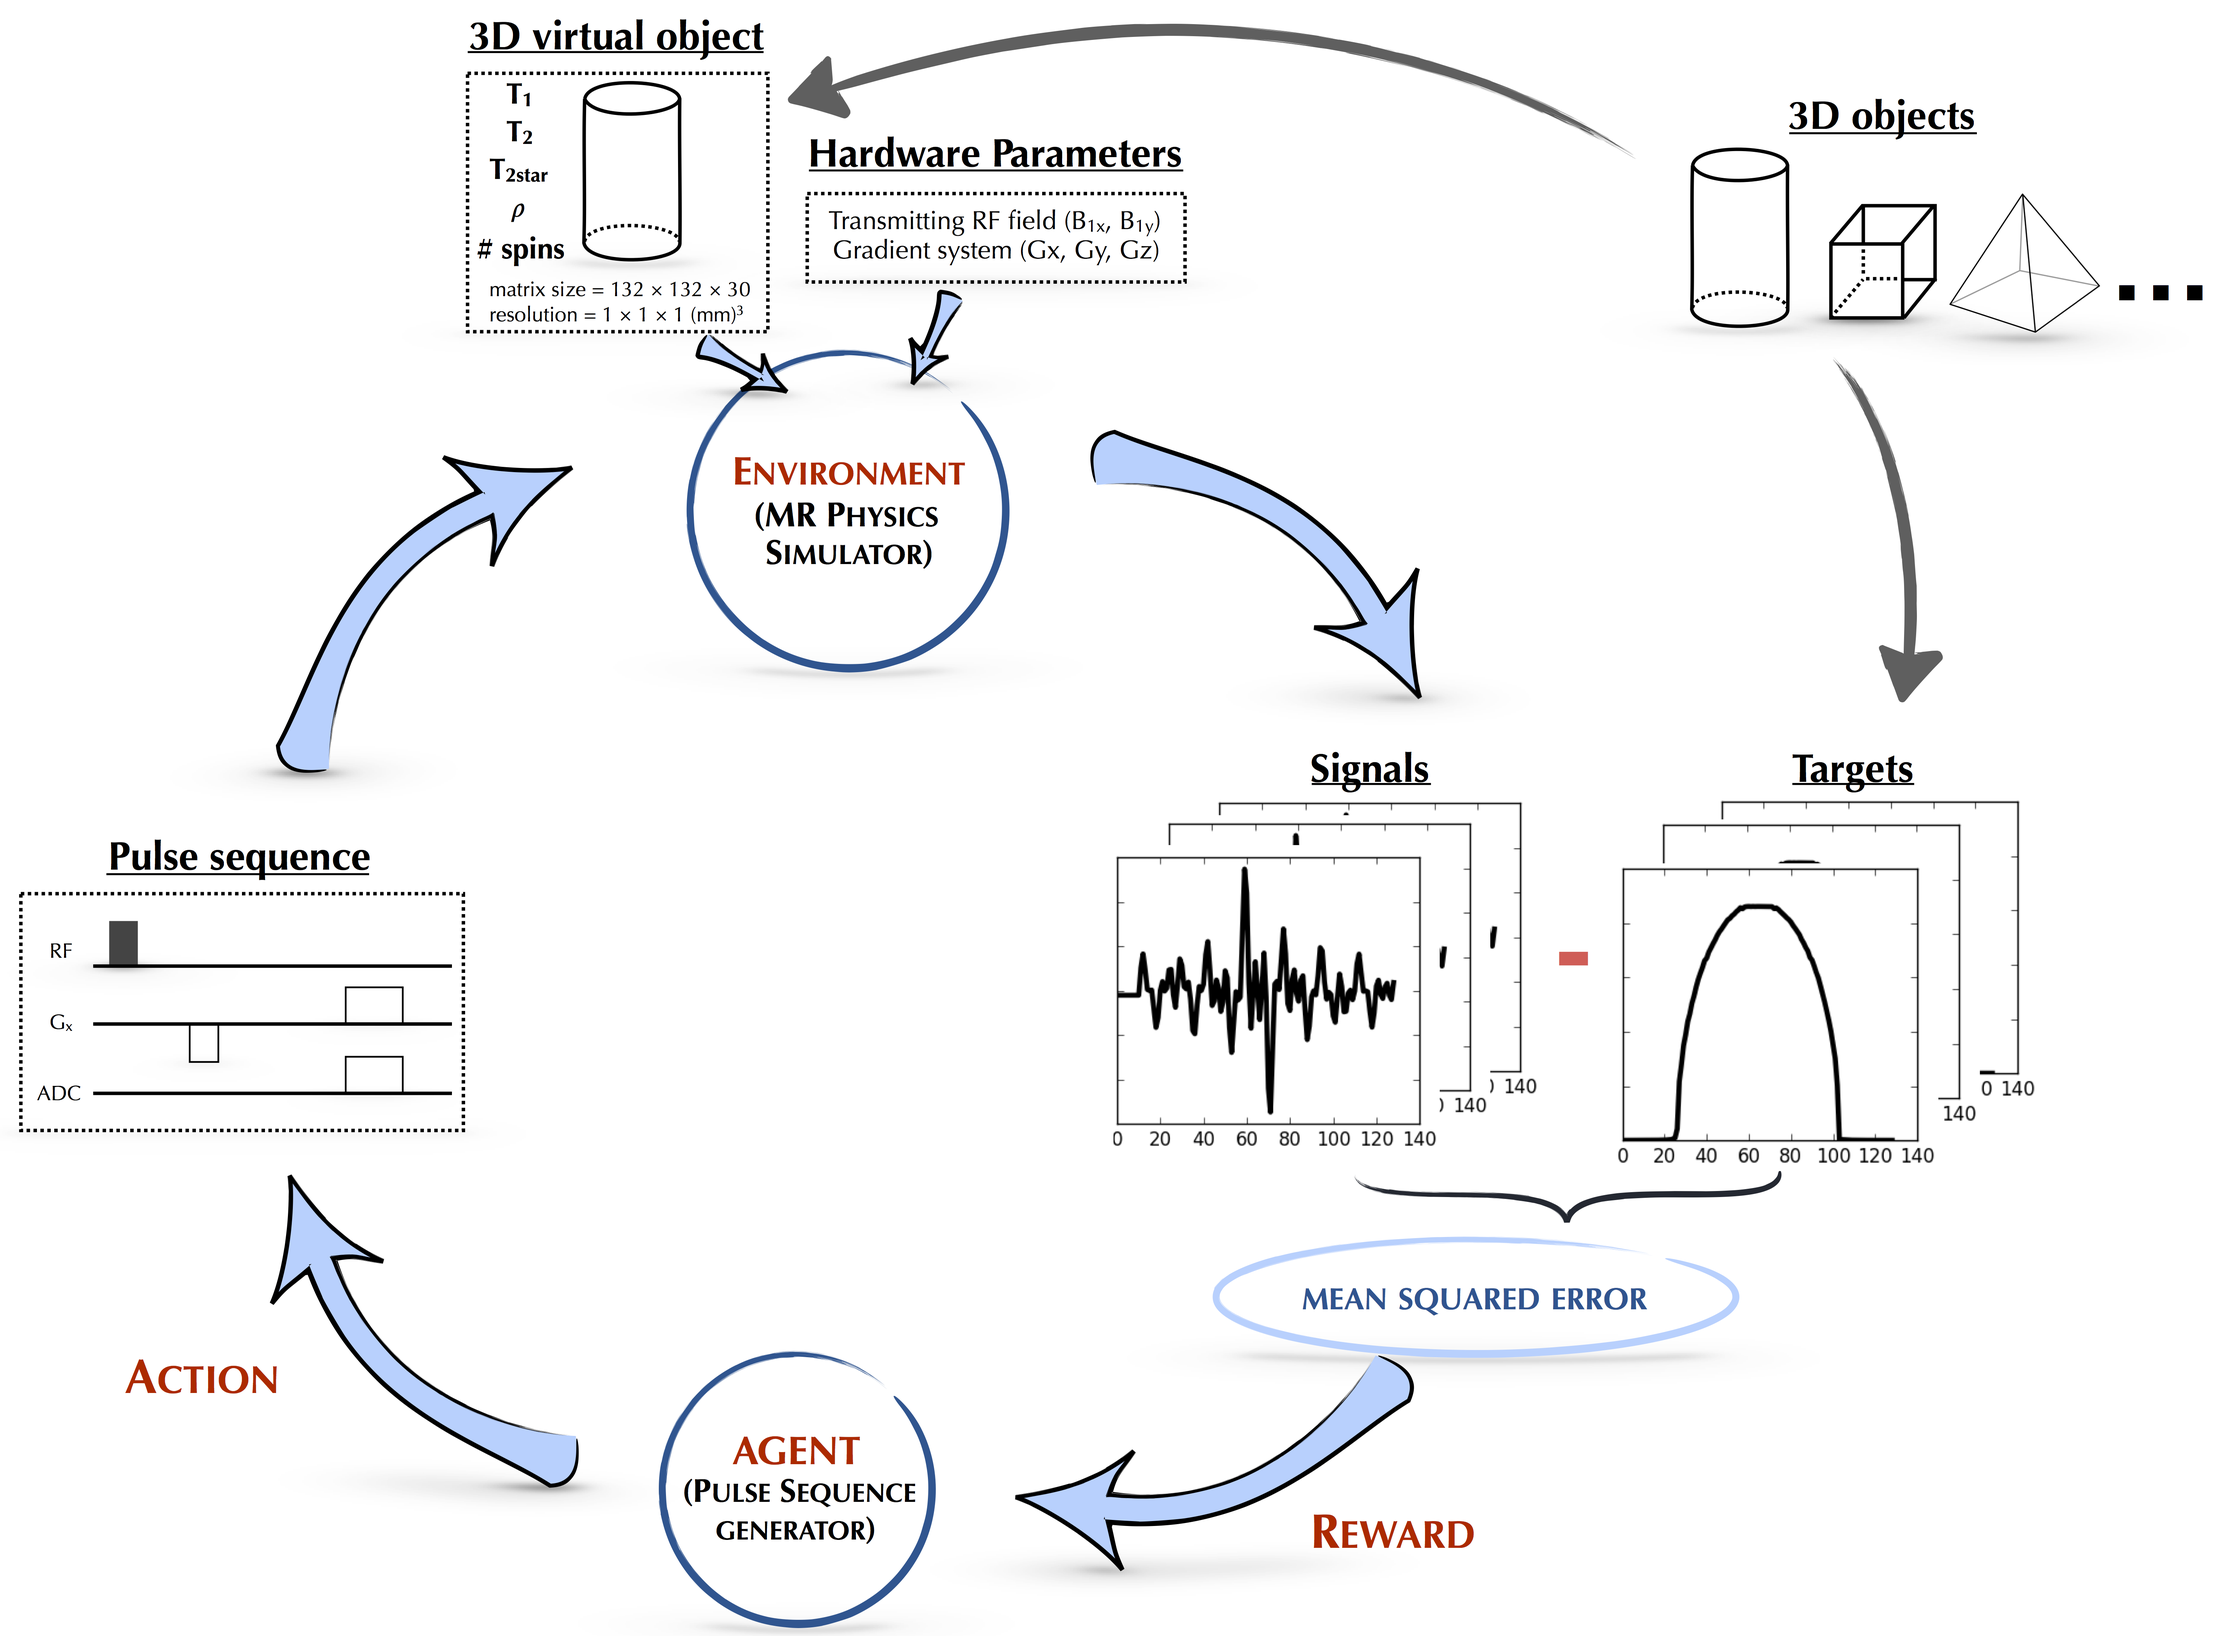
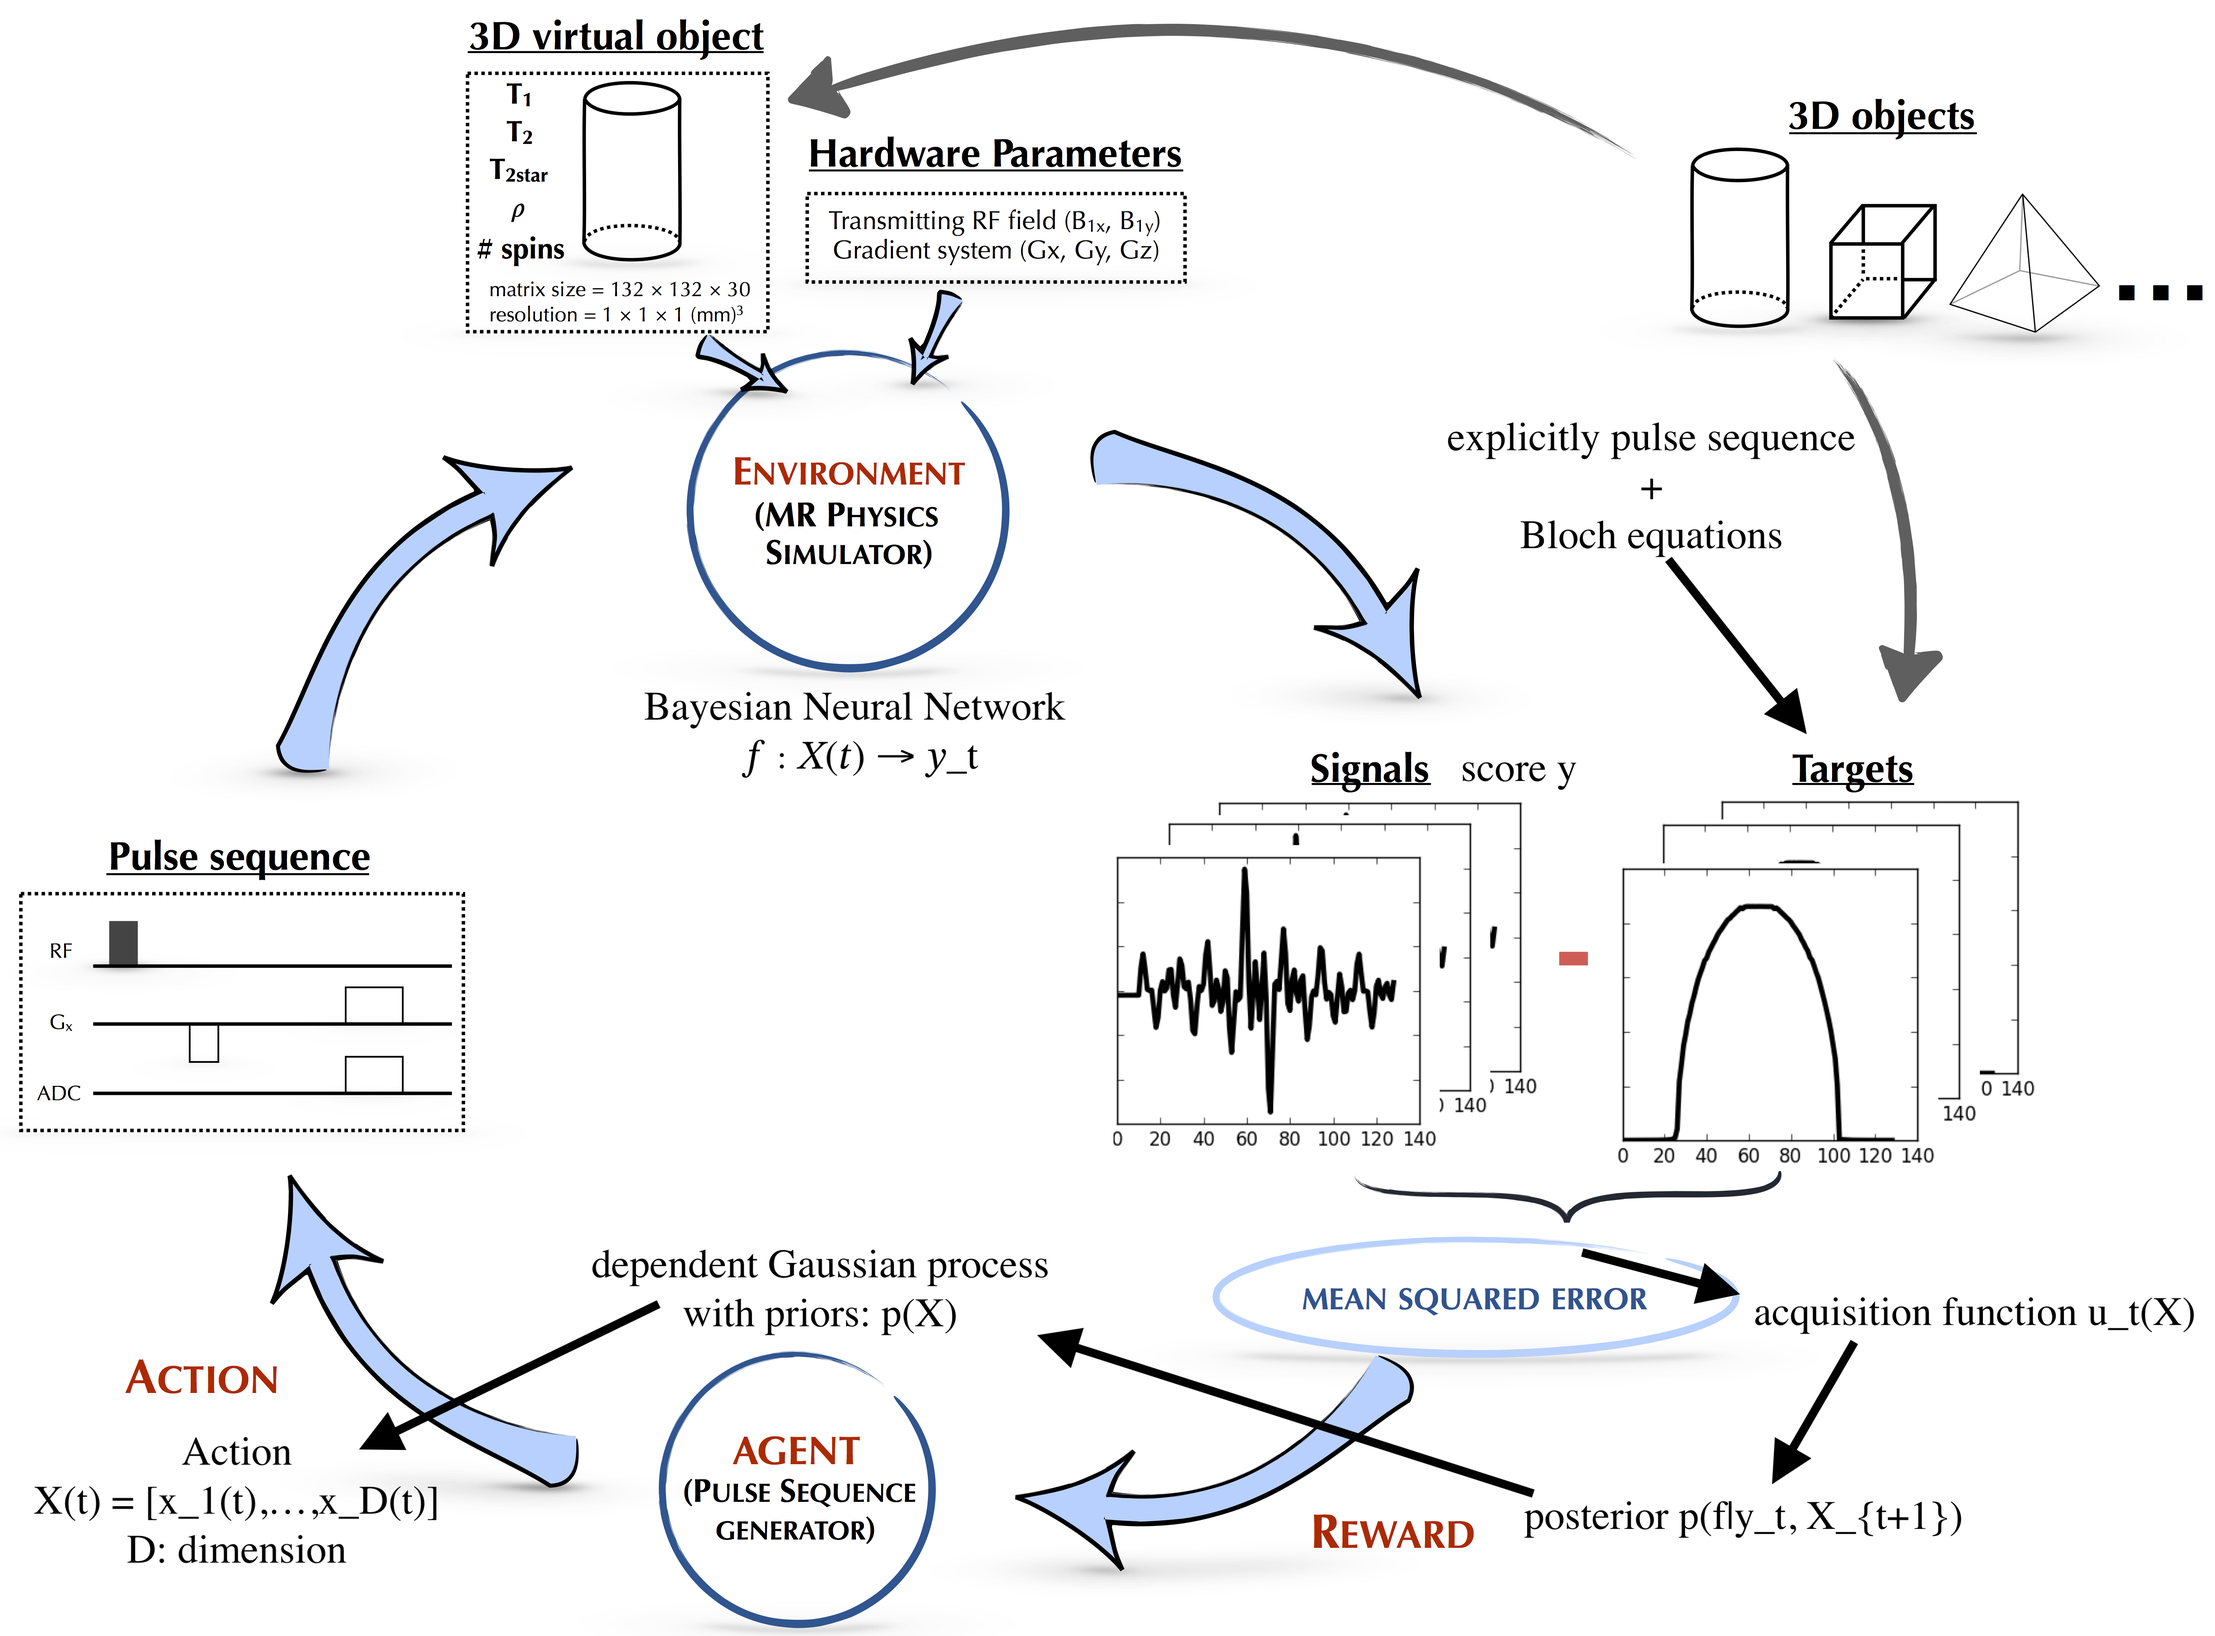
updated SOTA intro and limitations
1. some questions about SOTA intro
2. labelled the figure.

diff --git a/progress_outline/2_review.tex b/progress_outline/2_review.tex
@@ -1,4 +1,15 @@
 \section{Literature Review}
-\subsection{Existing relative research and solutions}
+\subsection{Existing relative researches and solutions}
+There are several researches introduced Reinforcement Learning framework to generate an optimal pulse sequence to achieve a consistent images compared with a pre-designed pulse sequence. Based on the sequence they focused, researches can be divided into two main part: gradient echo (GE) sequence generator and adiofrequency wave (RF) generator. 
+\\\\
+As illustrated in Figure \ref{schematic}, \citet{0438} generated the gradient-echo sequence $X(t)$ by an agent from a distribution $p(X)$ that modeled by a dependent Gaussian process. The interaction between the action $X(t)$ and the environment was simulated by a Bayesian Neural Network $f:X(t) \rightarrow y$, where $y$ represented the score of the predicted signal compared with the target signal. To address the exploitation and exploration dilemma, the next predicted set of pulse sequences $X^*$ was proposed by $p\left(f \mid y_t, X_{t+1}\right)$ by maximizing the acquisition function $u_t(X)$.
+
+\begin{figure}[ht]
+    \centering
+    \includegraphics[scale=0.6]{schematic.png}
+    \caption{Schematic of the AUTOSEQ Reinforcement Learning framework \citep{0438}.}
+    \label{schematic}
+\end{figure}
 
 \subsection{Limitations of the current state of the art}
+Though the preceding works have yielded satisfactory outcomes in addressing their respective problems, the empirical validation of the generalizability of RL models remains a critical concern. In an attempt to provide empirical evidence, \citet{0438} conducted experiments under a 1-D condition and examined specific constraints on a single $G_x$ but no conclusive evidence was presented regarding the generalizability of RL frameworks in more complex scenarios like higher dimensions or more sophisticated constraints. Additionally, a valuable research problem is the capacity to utilize the RL framework to design a comprehensive pulse sequence that encode radiofrequency (RF) waves and gradient echo sequences together.
